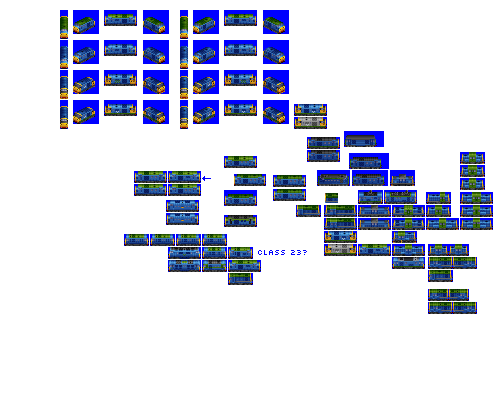
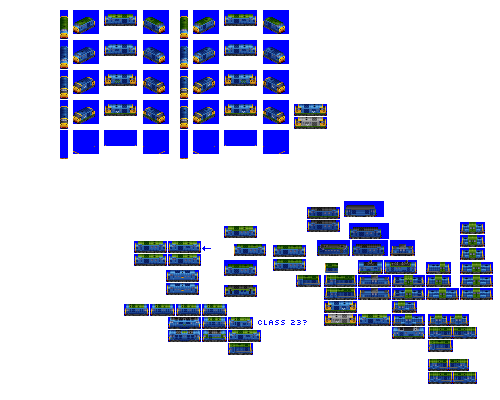
Change: support random decor for engines, and use it to add randomised snowploughs to Growler

Changed region(s): [[0.12, 0.3, 0.99, 0.96], [0.54, 0.78, 0.57, 0.81]]

diff --git a/src/train.py b/src/train.py
@@ -86,6 +86,8 @@ class Consist(object):
         self.power_by_power_source = kwargs.get("power_by_power_source", None)
         # some engines require pantograph sprites composited, don't bother setting this unless required
         self.pantograph_type = kwargs.get("pantograph_type", None)
+        # some engines have an optional decor layer, which is a manual spriterow num (as decor might not be widely used?)
+        self.decor_spriterow_num = kwargs.get("decor_spriterow_num", None)
         self.dual_headed = kwargs.get("dual_headed", False)
         self.tilt_bonus = False  # over-ride in subclass as needed
         self.lgv_capable = False  # over-ride in subclass as needed
@@ -804,6 +806,9 @@ class Consist(object):
             )
         # add a layer for a masked overlay as needed (usually applied over cargo sprites)
         if self.gestalt_graphics.add_masked_overlay:
+            result = result + 1
+        # add a layer for decor as needed, note this is not done in the gestalt as it's more convenient to treat separarely
+        if self.decor_spriterow_num is not None:
             result = result + 1
         # add a layer for pantographs as needed, note this is not done in the gestalt as it's more convenient to treat separarely
         if self.pantograph_type is not None:

diff --git a/src/vehicles/growler.py b/src/vehicles/growler.py
@@ -20,6 +20,7 @@ def main(roster_id):
             ("COLOUR_PALE_GREEN", "COLOUR_GREY"),
             ("COLOUR_PINK", "COLOUR_WHITE"),
         ],
+        decor_spriterow_num=4,
         sprites_complete=True,
     )
 
